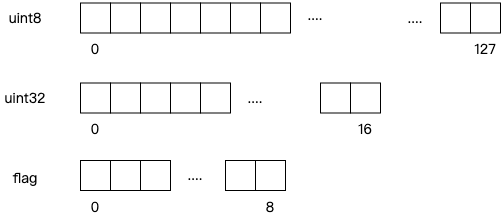
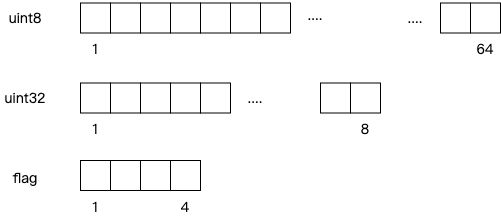
增加站点集获取函数；更新数据区长度

diff --git a/docs/rta/apps/srta/lua.md b/docs/rta/apps/srta/lua.md
@@ -47,13 +47,22 @@ keywords: [RTA, sRTA, SaaS]
 | srta.OS_ANDROID | Android | srta.get_os() |
 | srta.OS_OTHER | 其它操作系统 | srta.get_os() |
 
+**站点集**
+| 常量名称 | 含义 | 适用函数或变量 |
+| :--- | :--- | :-- |
+| srta.SITESET_UNION | 优量汇 | srta.get_siteset() |
+| srta.SITESET_WECHAT | 微信| srta.get_siteset() |
+| srta.SITESET_XQ | XQ | srta.get_siteset() |
+| srta.SITESET_XS_NEWS | 腾讯新闻 | srta.get_siteset() |
+| srta.SITESET_XS_VIDEO | 腾讯视频 | srta.get_siteset() |
+
 **策略参数**
 | 常量名称 | 含义 | 适用函数或变量 |
 | :--- | :--- | :-- |
 | srta.TARGETINFO_ENABLE | 策略参竞 | target_info |
 | srta.TARGETINFO_CPC_PRICE | CPC出价 | target_info |
 | srta.TARGETINFO_CPA_PRICE | CPA出价 | target_info |
-| srta.TARGETINFO_USER_WEIGHT_FACTOR | 用户权重系数	target_info |
+| srta.TARGETINFO_USER_WEIGHT_FACTOR | 用户权重系数 | target_info |
 | srta.TARGETINFO_CPC_FACTOR | CPC出价系统 | target_info |
 
 ### 5.2.2 函数列表
@@ -65,6 +74,7 @@ keywords: [RTA, sRTA, SaaS]
 | srta.get_apps | 获取App安装态(需授权) |
 | srta.get_scores | 获取模型分(需授权) |
 | srta.get_os | 获取终端操作系统 |
+| srta.get_siteset | 获取站点集ID |
 | srta.get_expid | 获取实验分桶ID |
 
 
@@ -76,9 +86,9 @@ didData = srta.get_dsdata(srta.DS_DID) -- 获取设备数据
 
 -- 以下为字段返回值示例
 didData = {
-    [1]: {0, 0, 0, 0, 0, 0, 0, 0, 0, 0, 0, 0, 0, 0, 0, 0, .... 0, 0, 0, 0, 0, 0, 0, 0},
-    [2]: {0, 0, 0, 0, 0, 0, 0, 0, 0, 0, 0, 0, 0, 0, 0, 0},
-    [3]: {false, false, false, false,false, false, false, false}
+    [1] = {0, 0, 0, 0, 0, 0, 0, 0, 0, 0, 0, 0, 0, 0, 0, 0, .... 0, 0, 0, 0, 0, 0, 0, 0},
+    [2] = {0, 0, 0, 0, 0, 0, 0, 0, 0, 0, 0, 0, 0, 0, 0, 0},
+    [3] = {false, false, false, false,false, false, false, false}
 }
 ```
 
@@ -129,7 +139,18 @@ os = srta.get_os() -- 获取终端操作系统
 1 -- 代表iOS，可以用srta常量进行判断
 ```
 
-### 5.2.8 srta.get_expid函数
+### 5.2.8 srta.get_siteset函数
+
+获取媒体站点集ID。返回值参考[系统常量]
+
+```lua
+siteset = srta.get_siteset() -- 获取媒体站点集ID
+
+-- 以下为返回值示例
+21 -- 21代表微信，可以用srta常量进行判断
+```
+
+### 5.2.9 srta.get_expid函数
 
 获取实验分桶编号。返回值为 0-10。1-10 每个分桶 UV 比例接近于 10%。由于系统原因，目前线上极少量的流量不会被分到任何实验分组，当分桶号为 0 时，代表流量未分桶。
 
@@ -280,9 +301,11 @@ newstamp = time.adddate(now, -1, 1, 1) -- 去年，再增加1月1天
 newstamp = time.setdate(2025, 6, 18, 12，13,14) -- 2025:06:18 12:13:14
 ```
 
-## 5.5 主函数main
+## 5.5 被调函数
 
-### 5.5.1 入口
+### 5.5.1 一次请求main
+
+#### 5.5.1.1 调用
 
 业务逻辑由使用方实现，为便于系统调用，约定使用main函数名。该函数无入口参数，后续所需数据通过调用内置函数获取
 
@@ -343,7 +366,7 @@ function main()
 end
 ```
 
-### 5.5.2 返回
+#### 5.5.1.2 返回
 
 主函数返回一个结果，为table格式并可引用srta常量以设置以下成员编号
 
@@ -355,6 +378,11 @@ end
 | srta.TARGETINFO_USER_WEIGHT_FACTOR | float | 策略用户权重系数 |
 | srta.TARGETINFO_CPC_FACTOR | float | 策略CPC出价系数 |
 
+
+### 5.5.2 二次请求second
+
+#### 5.5.2.1 调用
+#### 5.5.2.2 返回
 
 ## 5.6 代码调试
 
@@ -391,29 +419,29 @@ hijack函数返回一个沙箱结果集合。
 较为完整的使用示例
 ```lua
 function hijack()
-    local sandbox = {
-        srta_get_dsdata: {
-            [srta.DS_DID]: {
-                [srta.U8]: {0, 0, 0, 0, 0, 0, 0, 0,.... 0, 0, 0, 0, 0, 0, 0},
-                [srta.U32]: {0, 0, 0, 0, 0, 0, 0, 0, 0, 0, 0, 0, 0, 0, 0, 0},
-                [srta.FLAG]: {false, false, false, false,false, false, false, false}
-            }
-        },
-        srta_get_targets: {"t1", "t2", "t3"},
-        srta_get_apps: {
-            [13717681]: true,
-            [306821611]: false
-        },
-        srta_get_scores: {
-            [1]: 10,
-            [3]: 50
-        },
-        srta_get_os: srta.OS_IOS,
-        srta_get_expid: 1,
-        time_now: 1755414905
-    }
+    print("hijack run")
+	local sandbox = {
+		srta_get_dsdata = {
+			[srta.DS_DID] = {[srta.U8] = {[1] = 100},
+			[srta.U32] = {[2] = 99},
+			[srta.FLAG] = {[1] = true}}
+		},
+		srta_get_targets = {"t1", "t2", "t3"},
+		srta_get_apps = {
+			[13717681] = true,
+			[3704767080] = true
+		},
+		srta_get_scores = {
+			[200701123] = 10,
+			[200701129] = 50
+		},
+		srta_get_os = srta.OS_IOS,
+		srta_get_expid = 1,
+        srta_get_siteset = srta.SITESET_WECHAT,
+		time_now = 1755414905
+	}
 
-    return sandbox
+	return sandbox
 end
 ```
 
@@ -427,10 +455,11 @@ end
 
 | 函数  | 说明 |
 | :-- | :-- |
-| srta_get_dsdata | 使用srta.get_dsdata获取对应用户的真实一方数据 |
+| srta_get_dsdata | 未指定则使用srta.get_dsdata获取对应用户的真实一方数据。只有部分字段指定时，由指定字段覆盖原DS对应值 |
 | srta_get_targets | 使用srta.get_targets获取真实的策略列表 |
 | srta_get_apps | 返回nil |
 | srta_get_scores | 返回nil |
-| srta_get_os | 随机返回 srta.OS_IOS、srta.OS_ANDROID 之一 |
-| srta_get_expid | 随机返回数字 0-10 之一 |
+| srta_get_os | 使用ScriptRun接口调用的 os 字段，如调用接口未指定则为 srta.OS_ANDROID |
+| srta_get_expid | 0 |
+| srta_get_siteset | 0 |
 | time_now | 使用time.now获取真实的系统时间 |

diff --git a/docs/rta/apps/srta/api.md b/docs/rta/apps/srta/api.md
@@ -10,14 +10,14 @@ keywords: [RTA, sRTA, SaaS]
 
 ## 3.1 交互协议proto
 
-协议源码地址（协议在高频变动中，最新版本请拉取 [git源码](https://e.coding.net/rta/public/saasapi.git)：
+协议源码地址（协议在高频变动中，最新版本请拉取 [git源码](https://git.algo.com.cn/public/saasapi.git)：
 
 ```protobuf
 syntax = "proto3";
 
 package saasapi;
 
-option go_package = "e.coding.net/rta/public/saasapi";
+option go_package = "git.algo.com.cn/public/saasapi";
 
 // SaasReq 命令请求
 message SaasReq {
@@ -39,7 +39,7 @@ message SaasReq {
         BindSet bind_set                         = 61;  // 设置绑定
         BindDelete bind_delete                   = 62;  // 解除绑定
 
-        ScriptRun script_run                     = 90;  // 运行脚本（Debug）
+        ScriptRun script_run                     = 90;  // 运行脚本
         ScriptUpdate script_update               = 91;  // 脚本升级
     }
 }
@@ -187,6 +187,7 @@ message ScriptRun {
     string server_did                            = 2;   // 将从服务端读取该DID下的数据
     string appid                                 = 3;   // 小程序/小游戏/公众号/视频号的appid
     string server_openid                         = 4;   // 将从服务端读取该openid下的数据，需与appid配对使用
+    OS os                                        = 5;   // 操作系统
 }
 
 // ScriptUpdate 升级脚本
@@ -214,7 +215,7 @@ message SaasRes {
         BindSetRes bind_set_res                  = 61;  // 设置绑定返回状态
         BindDeleteRes bind_delete_res            = 62;  // 删除绑定返回状态
 
-        ScriptRunRes script_run_res              = 90;  // 运行脚本返回（Debug）
+        ScriptRunRes script_run_res              = 90;  // 运行脚本返回
         ScriptUpdateRes script_update_res        = 91;  // 升级脚本返回
     }
 }
@@ -315,8 +316,9 @@ message BindError {
 // ScriptRunRes 运行脚本返回
 message ScriptRunRes {
     string print_output                           = 1;  // print输出
-    string error                                  = 2;  // 错误信息
+    string error_output                           = 2;  // 错误信息
     string targets_output                         = 3;  // 策略输出
+    string dataspace_out                          = 4;  // 数据区输出
 }
 
 // ScriptUpdateRes 升级脚本返回
@@ -370,7 +372,13 @@ enum TaskStatus {
     SUCCESS                                      = 4;   // 成功
     FAIL                                         = 5;   // 失败
 
-    DELETED                                      = 10;   // 已删除，仅在执行删除成功时返回
+    DELETED                                      = 10;  // 已删除，仅在执行删除成功时返回
+}
+
+enum OS {
+    UNKNOWN                                      = 0;
+    IOS                                          = 1; 
+    ANDROID                                      = 2;
 }
 ```
 
@@ -999,9 +1007,10 @@ API以protobuf格式返回，返回信息为SaasRes结构
 | 字段名称 | 字段类型 | 必填 | 描述 |
 | :--- | :--- | :--- | :--- |
 | lua_script | string | 是 | LUA脚本 |
-| server_did | string | 否 | 将从服务端读取该DID下的数据 |
+| server_did | string | 是 | 将从服务端读取该DID下的数据 |
 | appid | string | 否 | 小程序/小游戏/公众号/视频号的appid |
 | server_openid | string | 否 | 将从服务端读取该openid下的数据，需与appid配对使用 |
+| os | os OS | 否 | 操作系统<br/>IOS = 1;<br/>Android = 2;<br/>默认 2  |
 
 **返回参数**：
 
@@ -1012,5 +1021,6 @@ API以protobuf格式返回，返回信息为SaasRes结构
 | 字段名称 | 字段类型 | 必填 | 描述 |
 | :--- | :--- | :--- | :--- |
 | print_output | string | 否 | 调用print函数的打印输出 |
-| error | string | 否 | LUA脚本运行错误 |
+| error_output | string | 否 | LUA脚本运行错误 |
 | targets_output | string | 否 | 策略输出内容 |
+| dataspace_out | string | 否 | 数据区输出内容 |

diff --git a/docs/rta/apps/srta/data.md b/docs/rta/apps/srta/data.md
@@ -12,19 +12,19 @@ keywords: [RTA, sRTA, SaaS]
 
 以下是一方数据存储中的结构示意.
 
-### 6.1.1 命名空间
+### 6.1.1 数据空间
 
-每个客户可以有 1 个（设备号存储区）或 2 个（设备号+wuid存储区）命名空间。
+每个账号下可以有多个数据空间，数据空间有两种类型：设备号存储区 / WUID存储区。当数据空间容量不足时，可申请更多独立空间。
 
 ![sRTA 存储](/img/srta_store1.png)
 
-### 6.1.2 命名空间内存储
+### 6.1.2 数据空间内存储
 
 存储区有三种类型的字段，可满足不同场景的诉求。
 
 ![sRTA 存储结构](/img/srta_store2.png)
 
-uint8 共 128 个		uint32 共 16 个		flagWithExpire 共 8 个
+uint8 共 64 个		uint32 共 8 个		flagWithExpire 共 4 个
 
 ### 6.1.3 字段使用
 
@@ -50,9 +50,9 @@ struct FlagWithExpire {
 };
 
 struct StoreValue{
-    uint8_t bytes[128];                        // byte型存储
-    uint32_t uint32s[16];                      // uint32型存储
-    struct FlagWithExpire flag_with_expire[8]; // flag型存储
+    uint8_t bytes[64];                         // byte型存储
+    uint32_t uint32s[8];                       // uint32型存储
+    struct FlagWithExpire flag_with_expire[4]; // flag型存储
 };
 ```
 

diff --git a/docs/rta/apps/srta/saastool.md b/docs/rta/apps/srta/saastool.md
@@ -34,6 +34,7 @@ Commands:
     task               Task commands    
     target             Target commands
     bind               Bind commands
+    script             Script commands
 
 "help" is the default command.
 
@@ -98,6 +99,23 @@ Commands:
 "help" is the default command.
 
 Use "saastool bind COMMAND -help" for more information about a command.
+```
+
+### 4.1.4 script（脚本）命令列表
+
+```sh
+saastool script help
+```
+
+```
+Usage:  saastoola script COMMAND [OPTIONS]
+
+Commands:
+    run                  Run lua script test on server
+
+"help" is the default command.
+
+Use "saastool script COMMAND -help" for more information about a command.
 ```
 
 ## 4.2 cfg.toml配置文件
